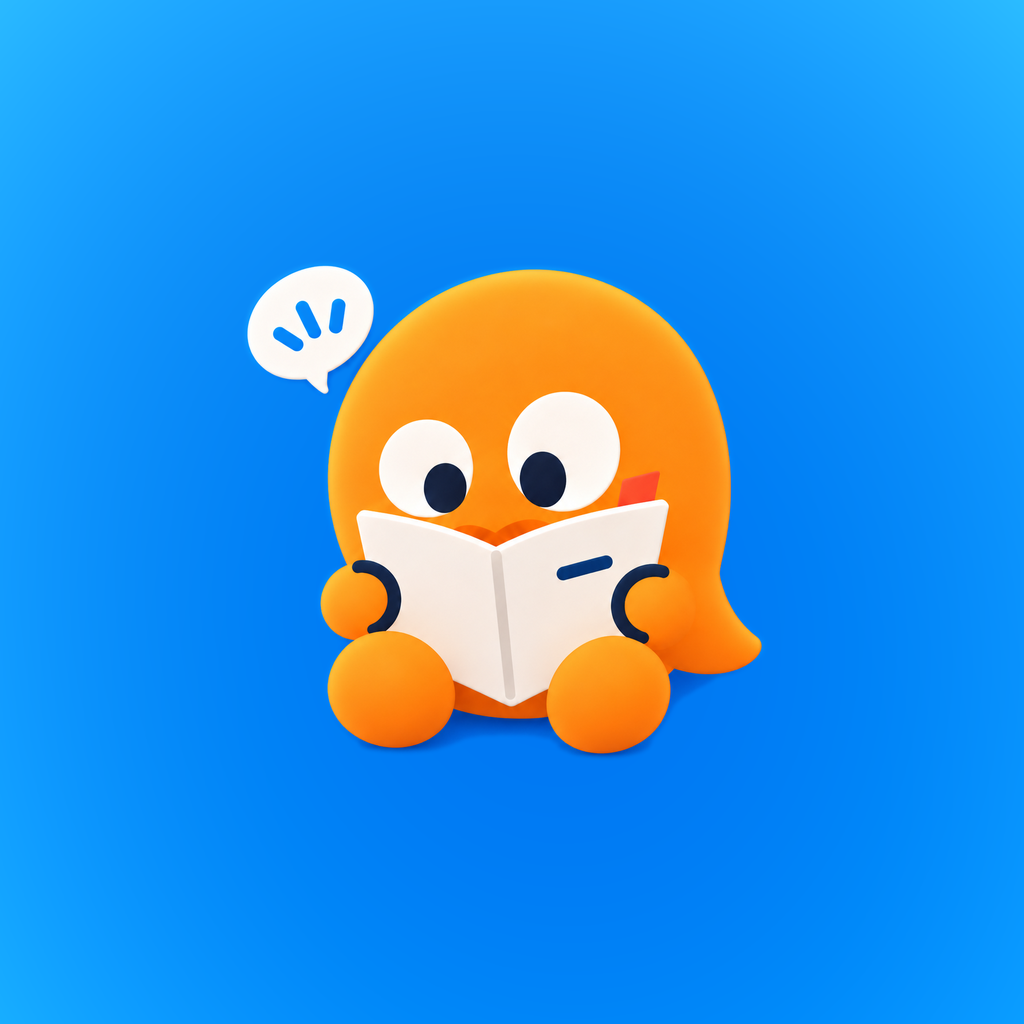
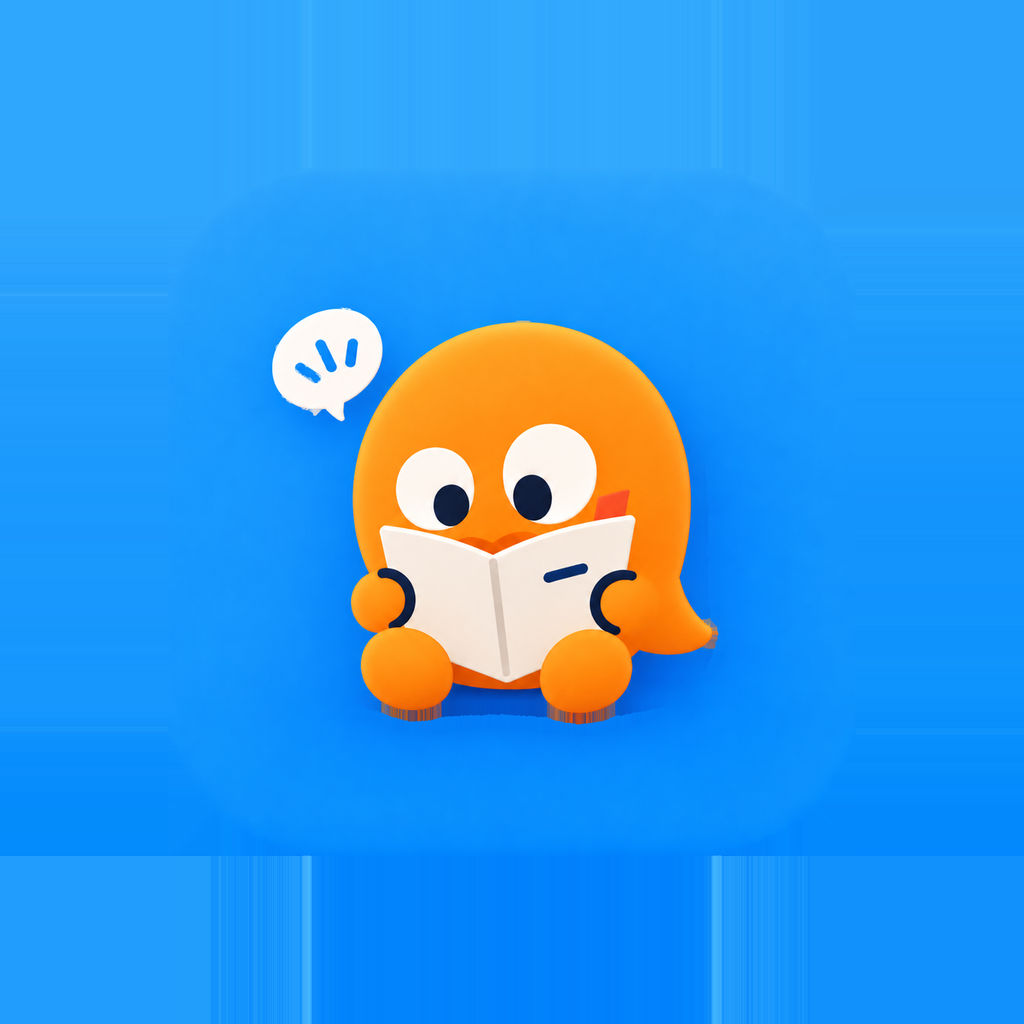
SOMA-638 뒤로 버튼을 꺾쇠로 통일하고 iOS 헤더·탭바와 안드로이드 바닥 탭바를 고친다 (#615)
* fix(mobile): 뒤로 버튼을 설정 화면의 꺾쇠로 통일하고 안드로이드 탭바를 바닥에 붙인다

iOS 네이티브 뒤로 버튼이 눌리지 않는 경우가 있어 스택 화면 헤더 왼쪽을 설정 화면과 같은 꺾쇠 버튼으로 바꾼다.
iOS 탭바는 홈 인디케이터 바로 위까지 내리고, 안드로이드 탭바는 떠 있는 알약 대신 바닥에 붙은 전체 폭 막대로
바꾸며 고른 탭만 아이콘 아래 이름을 보인다.

* fix(mobile): iOS 뒤로 버튼의 유리 배경을 끄고 안드로이드 탭바를 조금 높인다

* fix(mobile): iOS 스택 헤더를 설정 화면처럼 꺾쇠 옆 제목으로 직접 그린다

iOS 26 네이티브 헤더는 버튼마다 유리 배경을 씌워 꺾쇠가 뭉개져 보이고, 지금 rn-screens 는 그 배경을 끄는 설정을
네이티브에서 지원하지 않는다. iOS 만 헤더를 직접 그리고 화면이 준 headerLeft·headerRight 는 그대로 따른다.

* fix(mobile): 안드로이드 적응형 아이콘만 이전 그림으로 되돌린다

iOS 아이콘은 새 마스코트 그림을 유지한다.

---------

diff --git a/apps/mobile/app/(tabs)/_layout.tsx b/apps/mobile/app/(tabs)/_layout.tsx
@@ -1,7 +1,7 @@
 import Ionicons from '@expo/vector-icons/Ionicons';
 import { Tabs, useRouter } from 'expo-router';
 import React from 'react';
-import { Platform, Pressable, StyleSheet, View } from 'react-native';
+import { Platform, Pressable, StyleSheet, Text, View } from 'react-native';
 import { useSafeAreaInsets } from 'react-native-safe-area-context';
 
 import { HapticTab } from '@/components/haptic-tab';
@@ -13,6 +13,8 @@ import { translate as t } from '@/lib/i18n';
 import { TARGET } from '@/lib/spotlight-targets';
 
 type IoniconName = React.ComponentProps<typeof Ionicons>['name'];
+
+const IOS = Platform.OS === 'ios';
 
 /**
  * 하단 탭 — 홈 / 대본 / [촬영(FAB)] / 챌린지 / 프로필. 글자 없이 아이콘만(pen 탭바).
@@ -34,10 +36,11 @@ export default function TabLayout() {
     router.push({ pathname: '/record-video', params: { mode: 'ai', picker: '1' } });
   };
 
-  const icon = (outline: IoniconName, filled: IoniconName) => {
+  const icon = (outline: IoniconName, filled: IoniconName, label: string) => {
     const TabIcon = ({ color, focused }: { color: string; focused: boolean }) => (
-      <View style={[styles.iconPill, focused && styles.iconPillActive]}>
+      <View style={[styles.iconPill, IOS && focused && styles.iconPillActive]}>
         <Ionicons size={24} name={focused ? filled : outline} color={color} />
+        {!IOS && focused && <Text style={[styles.tabLabel, { color }]}>{label}</Text>}
       </View>
     );
     TabIcon.displayName = `TabIcon(${outline})`;
@@ -51,32 +54,44 @@ export default function TabLayout() {
         screenOptions={{
           tabBarActiveTintColor: palette.blue,
           tabBarInactiveTintColor: palette.textFaint,
-          tabBarStyle: {
-            position: 'absolute',
-            left: 20,
-            right: 20,
-            // iOS 는 홈 인디케이터 칸(34pt)이 이미 넓어 더 띄우면 너무 떠 보인다 — 인디케이터 칸 안쪽으로 붙인다.
-            bottom: Platform.OS === 'ios' ? Math.max(insets.bottom - 4, 12) : insets.bottom + 16,
-            height: 64,
-            borderRadius: 32,
-            backgroundColor: palette.card,
-            borderTopWidth: 0,
-            borderWidth: 1,
-            borderColor: palette.borderSoft,
-            paddingTop: 11,
-            paddingBottom: 11,
-            shadowColor: palette.navy,
-            shadowOpacity: 0.18,
-            shadowRadius: 24,
-            shadowOffset: { width: 0, height: 12 },
-            elevation: 14,
-          },
+          // iOS 는 홈 인디케이터 바로 위에 뜬 알약, 안드로이드는 바닥에 붙은 전체 폭 막대(pen 하단 탭 바, SOMA-638).
+          tabBarStyle: IOS
+            ? {
+                position: 'absolute',
+                left: 20,
+                right: 20,
+                bottom: Math.max(insets.bottom - 14, 12),
+                height: 64,
+                borderRadius: 32,
+                backgroundColor: palette.card,
+                borderTopWidth: 0,
+                borderWidth: 1,
+                borderColor: palette.borderSoft,
+                paddingTop: 11,
+                paddingBottom: 11,
+                shadowColor: palette.navy,
+                shadowOpacity: 0.18,
+                shadowRadius: 24,
+                shadowOffset: { width: 0, height: 12 },
+              }
+            : {
+                position: 'absolute',
+                left: 0,
+                right: 0,
+                bottom: 0,
+                height: 72 + insets.bottom,
+                backgroundColor: palette.card,
+                borderTopWidth: 0,
+                paddingTop: 12,
+                paddingBottom: insets.bottom + 12,
+                elevation: 16,
+              },
           tabBarShowLabel: false,
           headerShown: false,
           tabBarButton: HapticTab,
         }}>
-        <Tabs.Screen name="index" options={{ title: t('tabs.home'), tabBarIcon: icon('home-outline', 'home') }} />
-        <Tabs.Screen name="reading" options={{ title: t('tabs.reading'), tabBarIcon: icon('book-outline', 'book') }} />
+        <Tabs.Screen name="index" options={{ title: t('tabs.home'), tabBarIcon: icon('home-outline', 'home', t('tabs.home')) }} />
+        <Tabs.Screen name="reading" options={{ title: t('tabs.reading'), tabBarIcon: icon('book-outline', 'book', t('tabs.reading')) }} />
         {/* 기록은 탭바에서 빠졌지만(대본으로 교체) 라우트는 남겨 다른 화면에서 접근 가능하게 둔다. */}
         <Tabs.Screen name="history" options={{ href: null }} />
         <Tabs.Screen
@@ -103,11 +118,11 @@ export default function TabLayout() {
           name="challenges"
           options={{
             title: t('tabs.challenge'),
-            tabBarIcon: icon('trophy-outline', 'trophy'),
+            tabBarIcon: icon('trophy-outline', 'trophy', t('tabs.challenge')),
             tabBarBadge: unread.badge ?? undefined,
           }}
         />
-        <Tabs.Screen name="profile" options={{ title: t('tabs.profile'), tabBarIcon: icon('person-outline', 'person') }} />
+        <Tabs.Screen name="profile" options={{ title: t('tabs.profile'), tabBarIcon: icon('person-outline', 'person', t('tabs.profile')) }} />
       </Tabs>
     </>
   );
@@ -116,7 +131,7 @@ export default function TabLayout() {
 const styles = StyleSheet.create({
   iconPill: {
     minWidth: 48,
-    height: 34,
+    minHeight: 34,
     alignItems: 'center',
     justifyContent: 'center',
     borderRadius: 17,
@@ -124,6 +139,7 @@ const styles = StyleSheet.create({
   iconPillActive: {
     backgroundColor: palette.blueSoft,
   },
+  tabLabel: { fontSize: 11, fontWeight: '700', marginTop: 2 },
   fabSlot: { flex: 1, alignItems: 'center' },
   fab: {
     width: 58,

diff --git a/apps/mobile/app/_layout.tsx b/apps/mobile/app/_layout.tsx
@@ -1,5 +1,6 @@
 import Feather from '@expo/vector-icons/Feather';
 import { DefaultTheme, ThemeProvider, getFocusedRouteNameFromRoute } from '@react-navigation/native';
+import type { NativeStackHeaderProps } from '@react-navigation/native-stack';
 import { useFonts } from 'expo-font';
 import {
   router,
@@ -13,7 +14,7 @@ import {
 import * as SplashScreen from 'expo-splash-screen';
 import { StatusBar } from 'expo-status-bar';
 import { useEffect, useRef, useState } from 'react';
-import { AppState } from 'react-native';
+import { AppState, Platform } from 'react-native';
 import 'react-native-reanimated';
 
 import '@/lib/global-font';
@@ -24,6 +25,8 @@ import { startSignupAttributionListener } from '@/lib/signup-attribution-runtime
 import { initCrashlytics, markScreen } from '@/lib/crashlytics';
 import { installNavigationGuard } from '@/lib/navigation-guard';
 import { tabBackTitle } from '@/lib/tab-back-title';
+import { AppHeader } from '@/components/app-header';
+import { HeaderBack } from '@/components/header-back';
 import { pendingAnalysisStore } from '@/lib/analysis-storage';
 import { challengePushTarget } from '@/lib/challenge/notification-center';
 import {
@@ -343,7 +346,13 @@ function RootNavigator() {
 
   return (
     <>
-      <Stack>
+      <Stack
+        screenOptions={{
+          headerBackVisible: false,
+          headerLeft: () => <HeaderBack />,
+          // iOS 는 헤더를 직접 그린다 — 네이티브 헤더는 버튼에 유리 배경을 씌워 꺾쇠가 뭉개져 보인다(components/app-header).
+          ...(Platform.OS === 'ios' ? { header: (props: NativeStackHeaderProps) => <AppHeader {...props} /> } : null),
+        }}>
         <Stack.Screen name="update-required" options={{ headerShown: false, gestureEnabled: false }} />
         <Stack.Screen name="login" options={{ headerShown: false }} />
         <Stack.Screen name="consent" options={{ headerShown: false }} />

diff --git a/apps/mobile/components/app-header.tsx b/apps/mobile/components/app-header.tsx
@@ -1,0 +1,36 @@
+import type { NativeStackHeaderProps } from '@react-navigation/native-stack';
+import { StyleSheet, Text, View } from 'react-native';
+import { useSafeAreaInsets } from 'react-native-safe-area-context';
+
+import { palette } from '@/constants/palette';
+
+/**
+ * iOS 스택 화면의 헤더 — 설정 화면처럼 꺾쇠 옆에 제목을 붙인다(SOMA-638). iOS 26 의 네이티브 헤더는 왼쪽·오른쪽
+ * 버튼마다 유리 배경을 씌워 꺾쇠와 아이콘이 뭉개져 보이는데, 지금 rn-screens 는 그 배경을 끄는 설정을 네이티브에서
+ * 지원하지 않아 헤더를 직접 그린다. 화면이 준 headerLeft·headerRight·headerShadowVisible 은 그대로 따른다.
+ */
+export function AppHeader({ options, back }: NativeStackHeaderProps) {
+  const insets = useSafeAreaInsets();
+  const left = options.headerLeft?.({ canGoBack: !!back, tintColor: palette.text });
+  const right = options.headerRight?.({ canGoBack: !!back, tintColor: palette.text });
+  const title = typeof options.title === 'string' ? options.title : '';
+  return (
+    <View style={[styles.bar, { paddingTop: insets.top }, options.headerShadowVisible !== false && styles.line]}>
+      <View style={styles.row}>
+        {left}
+        <Text style={styles.title} numberOfLines={1}>
+          {title}
+        </Text>
+        {right ? <View style={styles.right}>{right}</View> : null}
+      </View>
+    </View>
+  );
+}
+
+const styles = StyleSheet.create({
+  bar: { backgroundColor: palette.card },
+  line: { borderBottomWidth: StyleSheet.hairlineWidth, borderBottomColor: palette.border },
+  row: { flexDirection: 'row', alignItems: 'center', gap: 8, minHeight: 52, paddingHorizontal: 16 },
+  title: { flex: 1, fontSize: 19, fontWeight: '800', color: palette.text },
+  right: { flexDirection: 'row', alignItems: 'center' },
+});

diff --git a/apps/mobile/components/header-back.tsx b/apps/mobile/components/header-back.tsx
@@ -1,0 +1,20 @@
+import Feather from '@expo/vector-icons/Feather';
+import { useRouter } from 'expo-router';
+import { Pressable } from 'react-native';
+
+import { palette } from '@/constants/palette';
+import { translate as t } from '@/lib/i18n';
+
+/**
+ * 스택 화면 헤더의 뒤로 버튼 — 설정 화면의 꺾쇠와 같은 모양(SOMA-638). 네이티브 뒤로 버튼은 iOS 에서 앞 화면 이름이
+ * 붙고 눌리지 않는 경우가 있어 쓰지 않는다. 돌아갈 화면이 없으면(딥링크로 바로 연 화면) 그리지 않는다.
+ */
+export function HeaderBack() {
+  const router = useRouter();
+  if (!router.canGoBack()) return null;
+  return (
+    <Pressable onPress={() => router.back()} hitSlop={12} accessibilityRole="button" accessibilityLabel={t('common.back')}>
+      <Feather name="chevron-left" size={26} color={palette.text} />
+    </Pressable>
+  );
+}

diff --git a/apps/mobile/app/report.tsx b/apps/mobile/app/report.tsx
@@ -122,7 +122,7 @@ export default function ReportScreen() {
 
   return (
     <SafeAreaView style={styles.safe} edges={['bottom']}>
-      <Stack.Screen options={{ title: t('note.title'), headerBackVisible: false, headerShadowVisible: false }} />
+      <Stack.Screen options={{ title: t('note.title'), headerBackVisible: false, headerLeft: () => null, headerShadowVisible: false }} />
 
       {loading && (
         <View style={styles.center}>
